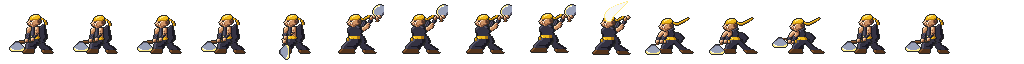
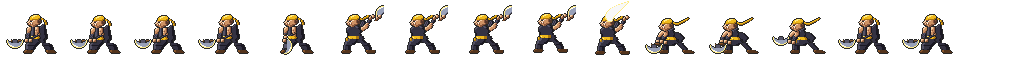
Pirate: agent's latest pass on the frames and sheet
Claude-Session: https://claude.ai/code/session_0156S23pwVB8PAo3CNfbv2Nz

diff --git a/tools/hand/pirate/frames.py b/tools/hand/pirate/frames.py
@@ -4,9 +4,10 @@ Three hand-drawn bodies (body.txt wide low stance, body_back.txt twisted-away
 wind-up with both hands raised, body_lunge.txt folded-forward crouch with both
 arms driven down) plus hand-placed overlays for the far arm, the big broad axe
 and the smear. The attack follows the six beats of the GBA Brigand / Warrior
-sheets: stance (axe low in front) → axe hung straight down, hands stacked →
-raised overhead behind the head, two hands → one big smear over the head →
-crouched two-handed chop buried at the foe's feet → the axe hauled back up.
+sheets: stance (axe level in front, edge down) → axe hung straight down from
+stacked hands → raised overhead behind the head, two hands → one big smear over
+the head → crouched two-handed chop buried at the foe's feet → the axe hauled
+back up.
 
 Run:  python3 tools/hand/pirate/frames.py
   -> pirate_attack.png / .gif next to this file, Godot sheet in godot/art/pirate_v2/
@@ -24,8 +25,8 @@ GROUND = 53          # row the feet stand on
 X_OFF = 18           # body grid column 0 -> box column
 ORIGIN = (36, 54)
 
-# 15 opaque colours. W doubles as teeth, eye glint, steel edge glint and smear core;
-# Y (pale yellow) is the axe edge glow and the smear fringe; C shades the steel by the socket.
+# 15 opaque colours. W doubles as teeth, eye glint, steel glint and smear core;
+# Y (pale yellow) is the axe edge glow and the smear fringe; C shades the steel by the eye.
 PAL = Palette(NAME, {
     "W": (248, 248, 248), "M": (152, 160, 184),
     "Y": (255, 236, 136), "y": (240, 186, 28), "v": (170, 116, 16),
@@ -41,168 +42,133 @@ def body(pose="body", dx=0, dy=0):
 
 
 def P(g, y, x, text):
-    """overlay in body-grid coordinates (row 0 = top of the 40-row body)"""
-    g.put(y + (GROUND - 39), x + X_OFF, text)
+    """overlay in body-grid coordinates (row 0 = top of the 40-row body); '.' leaves the pixel alone"""
+    g.put(y + (GROUND - 39), x + X_OFF, text.replace(".", "?"))
 
 
-def PB(g, y, x, text):
-    """overlay BEHIND the body: only writes onto empty pixels"""
-    by, bx = y + (GROUND - 39), x + X_OFF
-    for i, ch in enumerate(text):
-        if ch == "?" or ch == ".":
-            continue
-        if 0 <= by < g.h and 0 <= bx + i < g.w and g.g[by][bx + i] == ".":
-            g.g[by][bx + i] = ch
-
-
-def block(g, y, x, rows, behind=False):
+def block(g, y, x, rows):
     """hand-drawn multi-row overlay ('.' = leave alone)"""
     for j, ln in enumerate(rows):
-        (PB if behind else P)(g, y + j, x, ln.replace(".", "?"))
+        P(g, y + j, x, ln)
 
 
-def haft(g, y, x, dyx, n, pat="oLlo"):
-    """2-px haft from body coords (x,y); dyx = (dy, dx) per step; n steps"""
-    dy, ddx = dyx
-    for i in range(n):
-        P(g, y + dy * i, x + ddx * i, pat)
-
-
-# --- the axe head: one bit two heads wide, pale-yellow edge glow, steel body ------------
-# edge DOWN (socket at the top, local cols 6-9): stance, impact, haul
+# --- the broad axe: one bit, two heads wide. The crescent's horns run along the haft, the
+# pale-yellow edge faces away from it; the haft passes through the eye (the C patch) and
+# is drawn FIRST so the horn tips sit in front of it.
+# edge DOWN, haft horizontal along the top (eye at local cols 7-10, rows 1-3)
 AXE_DOWN = [
-    "......oooo......",
-    ".....oCCCCo.....",
-    "....oCMMMMMo....",
-    "...oCMMMMMMMo...",
-    "..oMMMMMMMMMMo..",
-    ".oMMMMMMMMMMMMo.",
-    "oMMMMMMMMMMMMMMo",
-    "oYWMMMMMMMMMMMYo",
-    "oYYWWMMMMMMMYYYo",
-    ".oYYYYYYYYYYYYo.",
-    "..oooooooooooo..",
+    "oo.....oooo.....oo",
+    "oYo...oCCCCo...oYo",
+    "oYMoo.oCCCCo.ooMYo",
+    "oYMMMooCCCCooMMMYo",
+    ".oYMMMMMMMMMMMMYo.",
+    ".oYWMMMMMMMMMMMYo.",
+    "..oYWWMMMMMMMMYo..",
+    "...oYYWWMMMMYYo...",
+    "....ooYYYYYYoo....",
+    "......oooooo......",
 ]
-# edge UP-LEFT (socket at the lower right, local (13,11)): raised
+# edge UP-LEFT, haft at 45 degrees along the inner arc (eye at local (7-8, 7-8))
 AXE_DIAG = [
-    "......oooo......",
-    "....ooYYMMoo....",
-    "...oYYWWMMMMo...",
-    "..oYWMMMMMMMMo..",
-    ".oYWMMMMMMMMMMo.",
-    ".oYMMMMMMMMMMCo.",
-    "oYMMMMMMMMMMMCo.",
-    "oYMMMMMMMMMMCCo.",
-    "oYMMMMMMMMMCCo..",
-    "oYMMMMMMMMCCo...",
-    ".oYMMMMMMMCo....",
-    "..oYMMMMMCo.....",
-    "...oYMMMo.......",
-    ".....ooo........",
+    "......ooooooo..",
+    "....ooYYYMMMMoo",
+    "...oYYWWMMMMMMo",
+    "..oYWWMMMMMMMo.",
+    ".oYWMMMMMMMMo..",
+    ".oYMMMMMMMMo...",
+    "oYMMMMMMMMo....",
+    "oYMMMMMMCo.....",
+    "oYMMMMMCo......",
+    "oYMMMMCo.......",
+    "oYMMMCo........",
+    "oYMMCo.........",
+    "oYMCo..........",
+    "oYCo...........",
+    "ooo............",
 ]
-
-
-def mirror(rows):
-    return [r[::-1] for r in rows]
 
 
 def rot_ccw(rows):
-    """rotate a block 90 degrees counter-clockwise (edge DOWN -> edge RIGHT)"""
+    """rotate a block 90 degrees counter-clockwise (edge DOWN -> edge RIGHT, haft vertical)"""
     w = len(rows[0])
     return ["".join(r[c] for r in rows) for c in range(w - 1, -1, -1)]
 
 
+def hand(g, y, x):
+    """3x3 fist with its outline"""
+    P(g, y - 1, x - 1, "ooooo"); P(g, y, x - 1, "oSSso"); P(g, y + 1, x - 1, "oSszo"); P(g, y + 2, x - 1, "oszzo"); P(g, y + 3, x - 1, "ooooo")
+
+
 # --- frames -------------------------------------------------------------------
-def far_arm_stance(g):
-    """far forearm curling in front of the belly to the rear hand on the haft"""
-    P(g, 19, 18, "ozo"); P(g, 20, 16, "oszo"); P(g, 21, 15, "oCcko"); P(g, 22, 14, "ocCko")
-    P(g, 23, 13, "oCcko")
-
-
-def hands_stance(g):
-    P(g, 24, 12, "oSSso"); P(g, 25, 12, "oSszo"); P(g, 26, 12, "oszzo"); P(g, 27, 13, "ooo")   # rear hand
-    P(g, 25, 6, "oSSso"); P(g, 26, 6, "oSszo"); P(g, 27, 6, "oszzo"); P(g, 28, 7, "ooo")       # lead hand (over the haft)
-
-
 def idle(bob=0):
     g = body()
     if bob:
         g.shift_region(0, 0, BOX, GROUND - 12, 0, bob)
-    far_arm_stance(g)
-    # haft held nearly level, pointing at the foe; head hanging edge-down in front of the shin
-    for i in range(14):
-        P(g, 26 + (1 if i > 6 else 0), 14 - i, "L")
-        P(g, 27 + (1 if i > 6 else 0), 14 - i, "l")
-        P(g, 25 + (1 if i > 6 else 0), 14 - i, "o")
-        P(g, 28 + (1 if i > 6 else 0), 14 - i, "o")
-    P(g, 25, 15, "o"); P(g, 26, 15, "o"); P(g, 27, 15, "o")
-    block(g, 27, -9, AXE_DOWN)
-    hands_stance(g)
+    # far forearm (bandaged) comes down across the sash to the rear hand
+    P(g, 19, 20, "ozo"); P(g, 20, 19, "oszo"); P(g, 21, 17, "oCcko"); P(g, 22, 15, "oCcko"); P(g, 23, 13, "ocCko"); P(g, 24, 12, "oCko")
+    # haft held level, pointing at the foe: rows 26-27 from the rear hand to 2 px past the eye
+    P(g, 25, -7, "o" * 21); P(g, 26, -7, "L" * 21); P(g, 27, -7, "l" * 21); P(g, 28, -7, "o" * 21)
+    block(g, 25, -12, AXE_DOWN)
+    hand(g, 25, 11); hand(g, 25, 7)
     return g.tidy()
 
 
 def axe_hung():
     """beat 2: the axe hangs straight down from stacked hands, head resting at the front foot"""
     g = body(dx=1)
-    # far forearm comes down the front of the chest to the upper hand
-    P(g, 18, 18, "ozo"); P(g, 19, 16, "oszo"); P(g, 20, 14, "oCcko"); P(g, 21, 13, "ocCko")
-    # vertical haft from the upper hand down into the socket
-    for i in range(10):
-        P(g, 22 + i, 10, "oLlo")
-    block(g, 30, 5, rot_ccw(AXE_DOWN))
-    P(g, 22, 9, "oSSso"); P(g, 23, 9, "oSszo"); P(g, 24, 9, "oszzo")      # upper (rear) hand
-    P(g, 26, 8, "oSSso"); P(g, 27, 8, "oSszo"); P(g, 28, 8, "oszzo"); P(g, 29, 9, "ooo")  # lead hand
+    g.clear(X_OFF + 6, GROUND - 39 + 25, X_OFF + 12, GROUND - 39 + 29)     # the body's own hand
+    P(g, 18, 20, "ozo"); P(g, 19, 18, "oszo"); P(g, 20, 16, "oCcko"); P(g, 21, 14, "ocCko")   # far forearm
+    for y in range(20, 34):
+        P(g, y, 9, "oLlo")
+    block(g, 23, 9, rot_ccw(AXE_DOWN))
+    hand(g, 22, 10); hand(g, 25, 9)
     return g.tidy()
 
 
 def raised(tremble=0):
     """beat 3: twisted away, both hands up behind the head, the axe head high behind"""
-    g = body("body_back", dx=-5, dy=tremble)
-    haft(g, 4, 39, (-1, 1), 8)                        # up-right through the hands to the socket
-    P(g, 6, 38, "oLlo"); P(g, 7, 37, "oLlo")          # butt of the haft below the hands
-    block(g, -10, 34, AXE_DIAG)
-    # hands re-drawn over the haft
-    P(g, 1, 38, "oSSso"); P(g, 2, 37, "oSoSszo"); P(g, 3, 37, "oSsozzo"); P(g, 4, 37, "oszzoo"); P(g, 5, 37, "ozzo")
+    g = body("body_back", dx=-6, dy=tremble)
+    for i in range(11):                               # haft from the butt up-right through the hands to the eye
+        P(g, 6 - i, 36 + i, "oLlo")
+    block(g, -9, 37, AXE_DIAG)
+    P(g, 1, 39, "oSSso"); P(g, 2, 37, "oSoSszo"); P(g, 3, 37, "oSsozzo"); P(g, 4, 37, "oszzoo"); P(g, 5, 37, "ozzo")
     return g.tidy()
 
 
 SMEAR = [
-    (-13, 39, "YY"), (-12, 36, "YYWWY"), (-11, 33, "YYWWWWY"), (-10, 30, "YYWWWWWWY"),
-    (-9, 28, "YWWWWWWWWY"), (-8, 26, "YWWWWWWWWWY"), (-7, 24, "YWWWWWWWWWWY"), (-6, 22, "YWWWWWWWWWWWY"),
-    (-5, 21, "YWWWWWWWWWWWY"), (-4, 20, "YWWWWWWWWWWWY"), (-3, 19, "YWWWWWWWWWWWY"), (-2, 18, "YWWWWWWWWWWWY"),
-    (-1, 18, "YWWWWWWWWWWY"), (0, 17, "YWWWWWWWWWWY"), (1, 17, "YWWWWWWWWWY"), (2, 17, "YWWWWWWWWY"),
-    (3, 17, "YWWWWWWWY"), (4, 18, "YWWWWWWY"), (5, 18, "YWWWWWY"), (6, 19, "YWWWWY"), (7, 19, "YYYYY"),
+    (-13, 41, "YY"), (-12, 38, "YYWWY"), (-11, 35, "YYWWWWY"), (-10, 32, "YYWWWWWWY"),
+    (-9, 30, "YWWWWWWWWY"), (-8, 28, "YWWWWWWWWWY"), (-7, 26, "YWWWWWWWWWWY"), (-6, 24, "YWWWWWWWWWWWY"),
+    (-5, 23, "YWWWWWWWWWWWY"), (-4, 22, "YWWWWWWWWWWWY"), (-3, 21, "YWWWWWWWWWWWY"), (-2, 20, "YWWWWWWWWWWWY"),
+    (-1, 20, "YWWWWWWWWWWY"), (0, 19, "YWWWWWWWWWWY"), (1, 19, "YWWWWWWWWWY"), (2, 19, "YWWWWWWWWY"),
+    (3, 19, "YWWWWWWWY"), (4, 20, "YWWWWWWY"), (5, 20, "YWWWWWY"), (6, 21, "YWWWWY"), (7, 21, "YYYYY"),
 ]
 
 
 def smear():
     """beat 4: the whole axe head becomes one pale wedge sweeping over the head"""
-    g = body("body_back", dx=-7, dy=1)
+    g = body("body_back", dx=-8, dy=1)
     for y, x, t in SMEAR:
-        P(g, y, x - 7, t)
+        P(g, y, x - 8, t)
     return g.tidy()
 
 
 def impact():
     """beat 5: crouched two-handed chop, the head buried at the foe's feet"""
     g = body("body_lunge", dx=-4)
-    for i in range(7):                                # haft from the hands down-left to the socket
-        P(g, 27 + i // 2, 3 - i, "oLlo")
+    for i in range(16):                               # haft from the rear hand down-left, 3 px drop over its length
+        P(g, 27 + i // 6, 8 - i, "o"); P(g, 28 + i // 6, 8 - i, "L"); P(g, 29 + i // 6, 8 - i, "l"); P(g, 30 + i // 6, 8 - i, "o")
     block(g, 30, -13, AXE_DOWN)
-    # hands over the haft
-    P(g, 26, 1, "oSSso"); P(g, 27, 1, "oSszo"); P(g, 28, 1, "oszzo"); P(g, 29, 2, "ooo")
-    P(g, 27, 5, "oSso"); P(g, 28, 5, "oszo"); P(g, 29, 6, "oo")
+    hand(g, 26, 2); hand(g, 27, 6)
     return g.tidy()
 
 
 def lower():
     """beat 6: hauling the axe back up out of the ground"""
     g = body("body_lunge", dx=-1)
-    for i in range(8):
-        P(g, 27 - i // 2, 3 - i, "oLlo")
-    block(g, 23, -14, AXE_DOWN)
-    P(g, 26, 1, "oSSso"); P(g, 27, 1, "oSszo"); P(g, 28, 1, "oszzo"); P(g, 29, 2, "ooo")
-    P(g, 27, 5, "oSso"); P(g, 28, 5, "oszo"); P(g, 29, 6, "oo")
+    for i in range(14):
+        P(g, 27 - i // 3, 7 - i, "o"); P(g, 28 - i // 3, 7 - i, "L"); P(g, 29 - i // 3, 7 - i, "l"); P(g, 30 - i // 3, 7 - i, "o")
+    block(g, 22, -14, AXE_DOWN)
+    hand(g, 26, 2); hand(g, 27, 6)
     return g.tidy()
 
 
